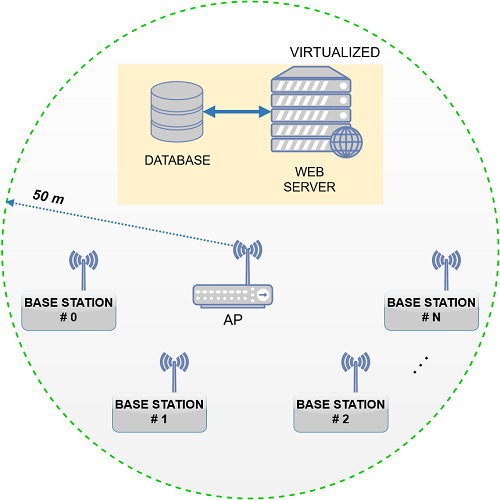
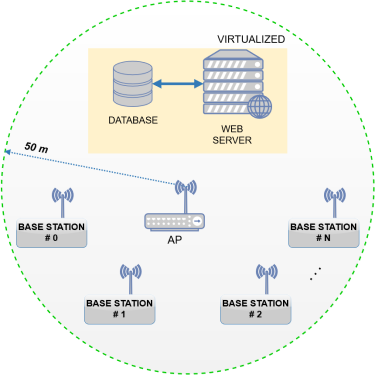
Edit figure

diff --git a/README.md b/README.md
@@ -3,9 +3,7 @@
 The I.E.Q.A. system consists of spatially distributed autonomous base stations equipped with sensors, LCD display, actuator, data storage device and a board that supports a Linux distribution with built-in WiFi support.
 Every single base station is able to send their acquired/stored data over WiFi in a Wireless Local Area Network (WLAN) to a virtual Linux server which is aimed to process and display data through a dedicated web application. The latter, processes the data using a mathematical model based on the combination of two parameters: Heat Index (HI), which is obtained by multiple regression analysis by considering the values of temperature and relative humidity, and the Luminosity-Brightness Index (LBI) that provides an index based on the detected brightness according to [UNI EN 12464](http://store.uni.com/magento-1.4.0.1/index.php/uni-en-12464-1-2011.html) (released by the [Italian National Unification](http://www.uni.com)).
 
-<p align="center">
-    <img src="./figures/fig1.png" alt="Overall diagram of the system." title="Overall diagram of the system" style="max-width:70%;">
-</p>
+![Overall diagram of the system.](./figures/fig1.png "Overall diagram of the system")
 
 ## Functionalities
 
@@ -32,3 +30,17 @@ Every single base station is able to send their acquired/stored data over WiFi i
 * _Actuator_: each BS has been predisposed to easily drive an actuator;
 * _Self-diagnostic_: the device can easily identify when a fault has occurred.
 * _LCD and Reset_: each BS has endowed with a reset button and a display with backlight that shows all informations about the system.
+
+## Network
+
+### Network configuration
+In the following table it can be seen the network configuration of the whole system.
+
+|               |      BS #0      |      BS #1      |       Host      |   Virtual web   |
+|---------------|:---------------:|:---------------:|:---------------:|:---------------:|
+| Address       |  192.168.43.10  |  192.168.43.20  |  192.168.43.61  |  192.168.43.100 |
+| Netmask       |  255.255.255.0  |  255.255.255.0  |  255.255.255.0  |  255.255.255.0  |
+| Wildcard mask |    0.0.0.255    |    0.0.0.255    |    0.0.0.255    |    0.0.0.255    |
+| Network       | 192.168.43.0/24 | 192.168.43.0/24 | 192.168.43.0/24 | 192.168.43.0/24 |
+| Broadcast     |  192.168.43.255 |  192.168.43.255 |  192.168.43.255 |  192.168.43.255 |
+| Gateway       |   192.168.43.1  |   192.168.43.1  |   192.168.43.1  |   192.168.43.1  |
